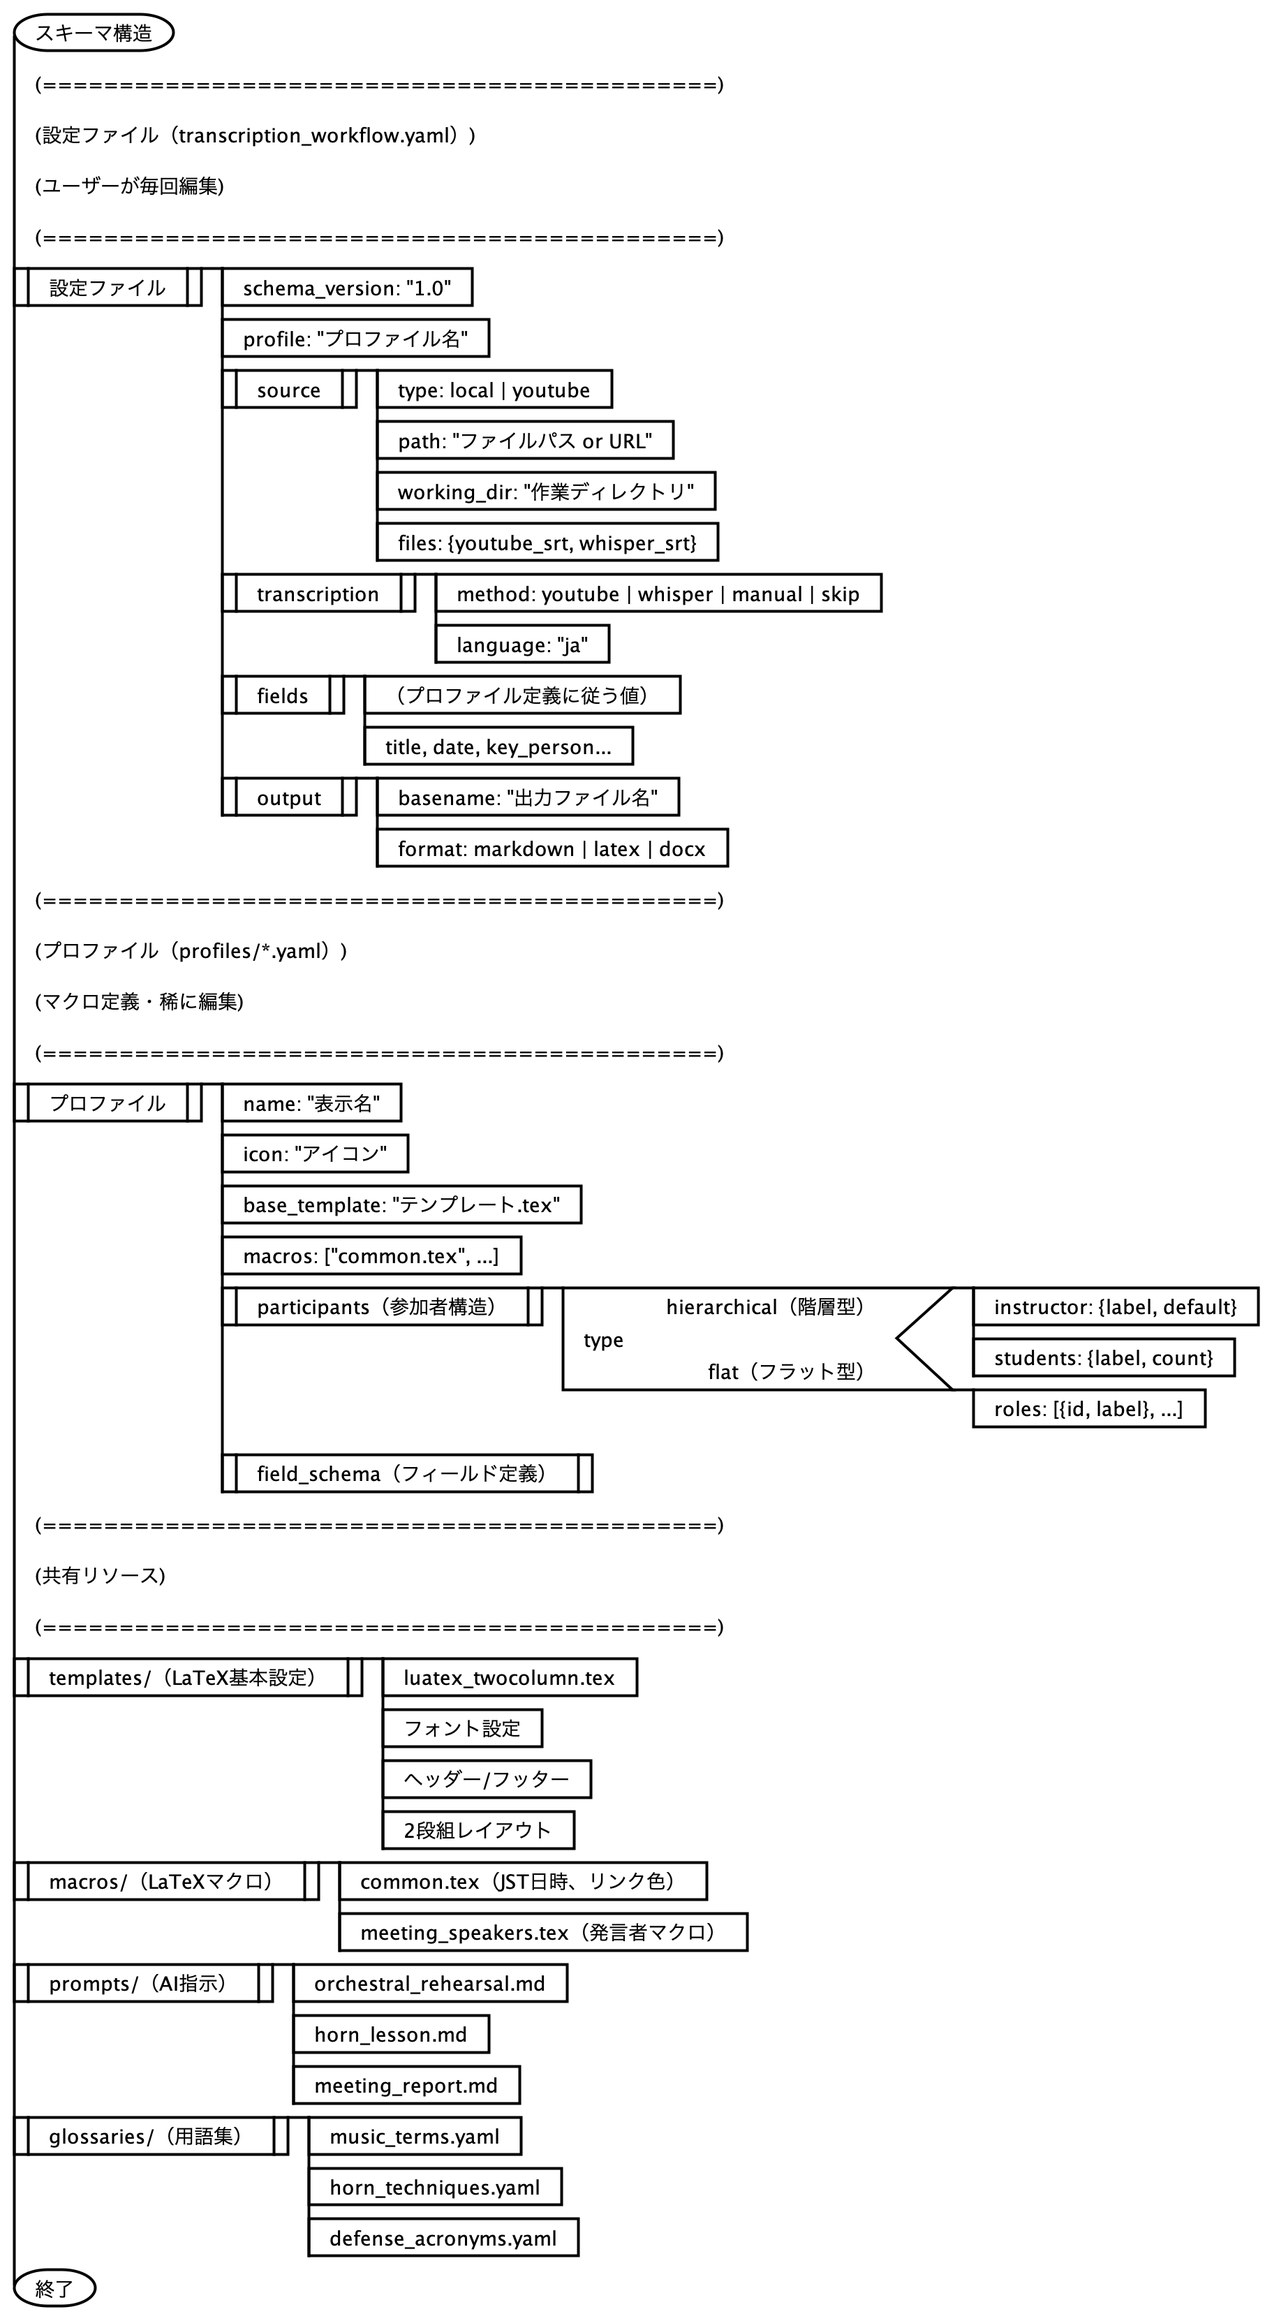
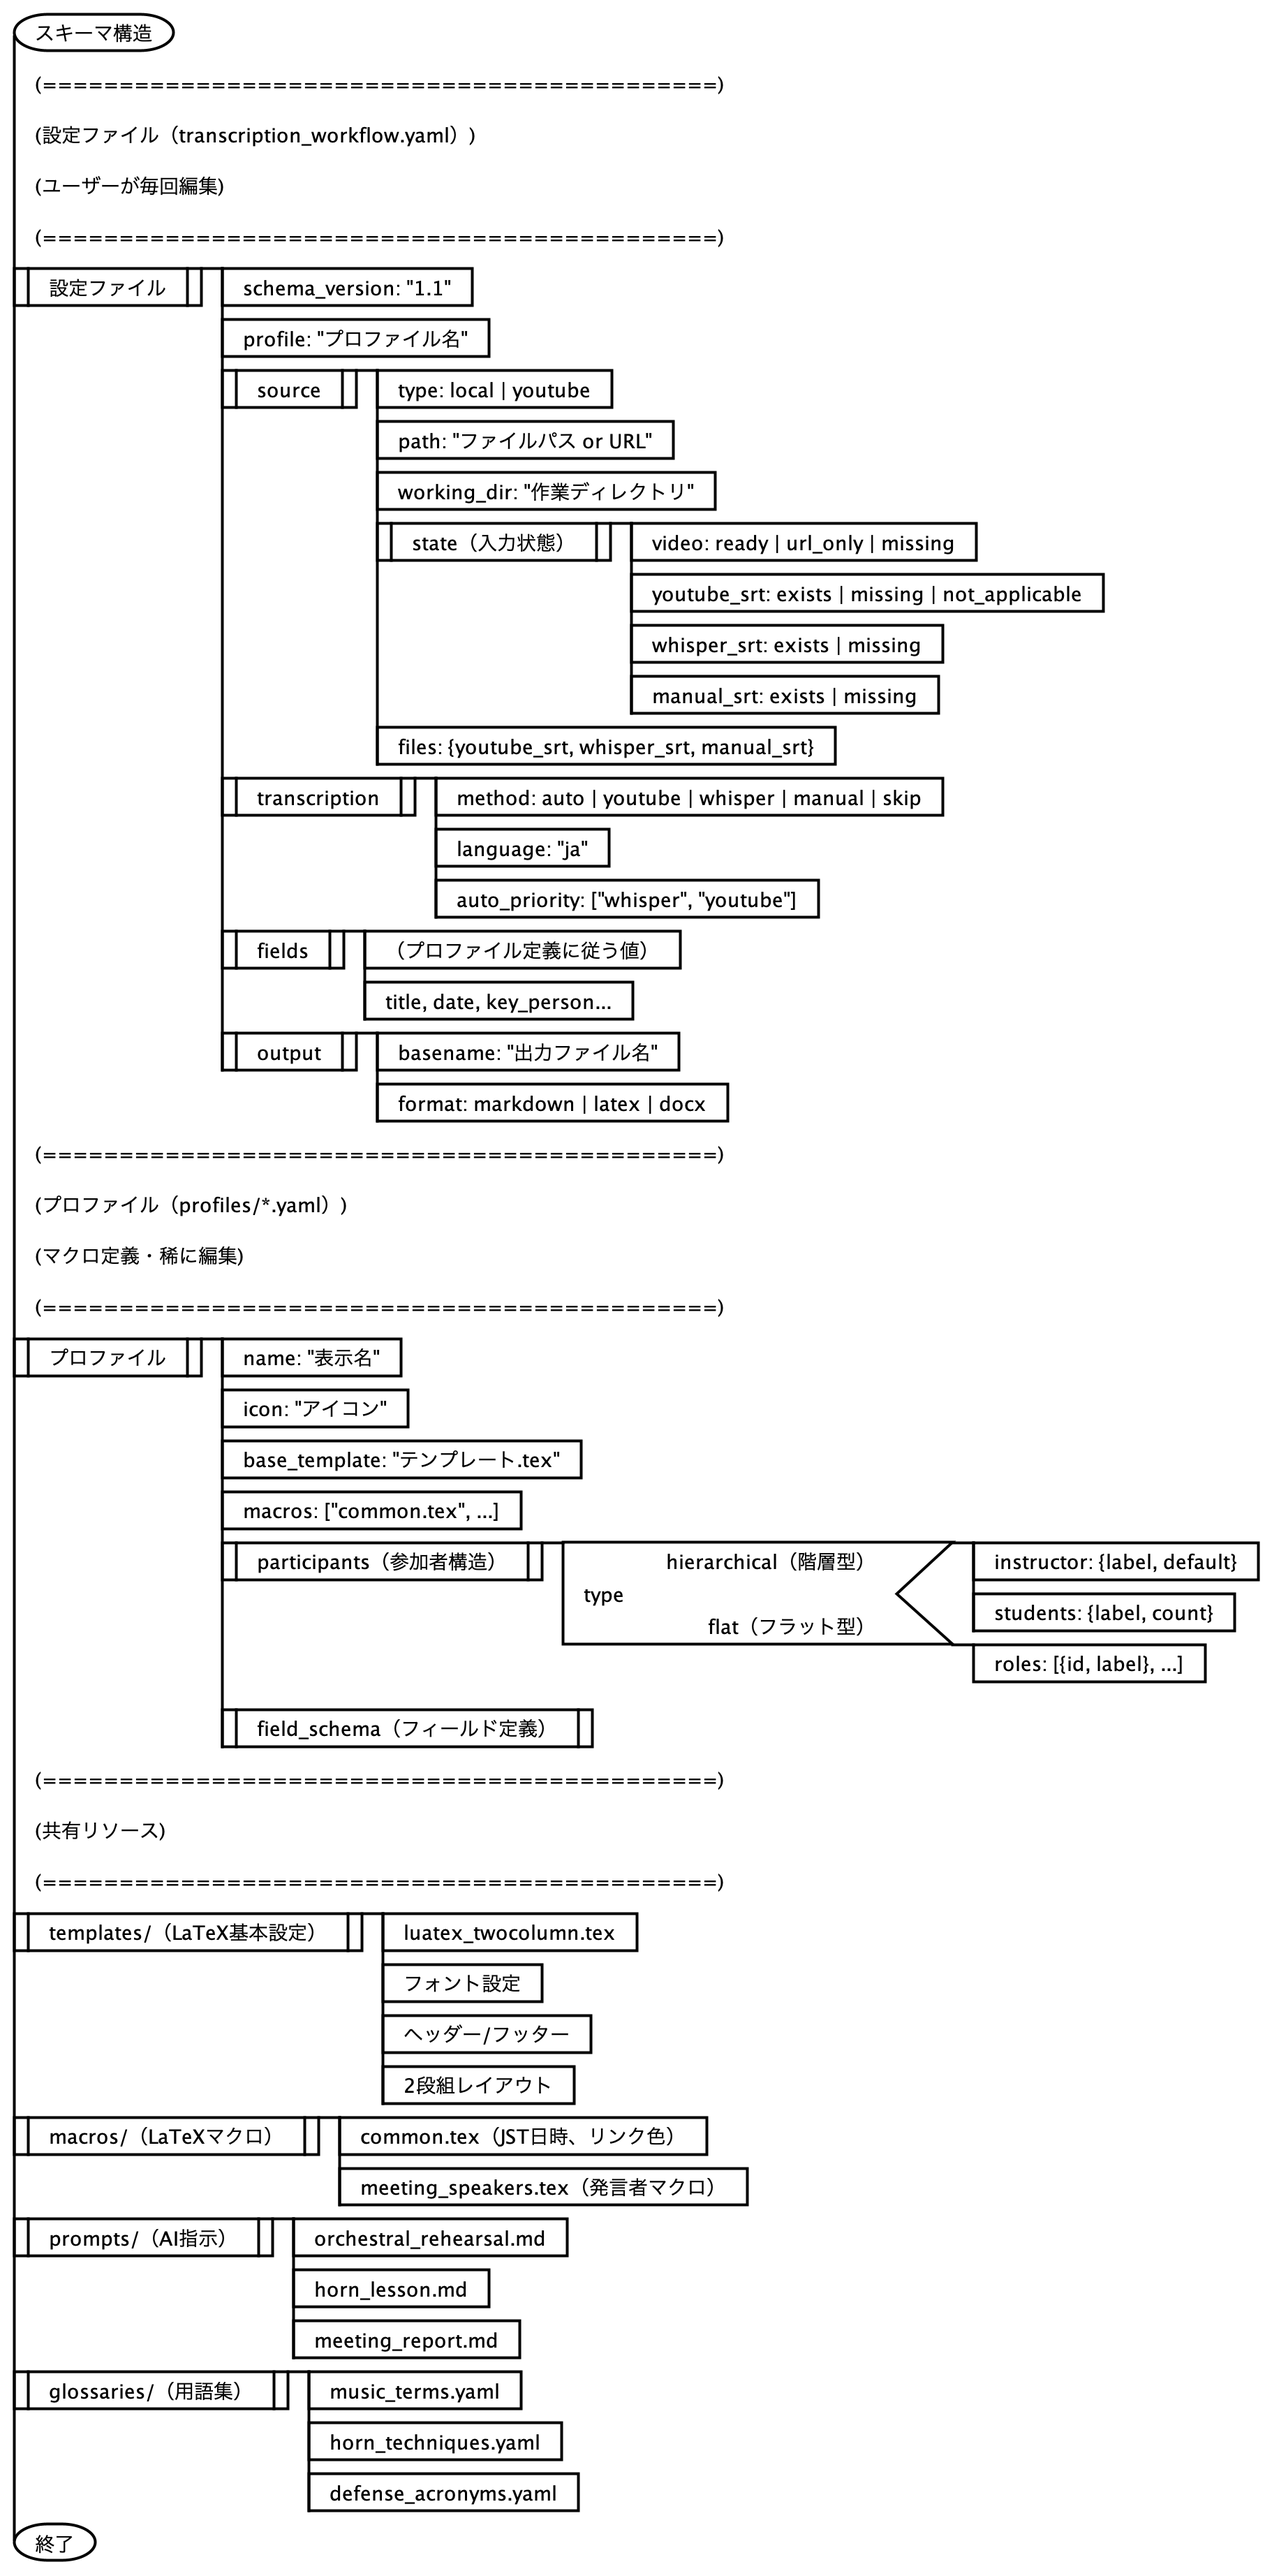
Add input state enumeration and workflow boundary clarification
Design refactoring based on input state analysis:
- Add 7 input states enumeration (YouTube URL, local video, with/without SRTs)
- Add source.state field to YAML schema (v1.1)
- Add transcription.method = "auto" with auto_priority
- Clarify workflow boundary: preprocessing guarantees SRT existence
- Update PAD with Phase 3 (input state determination)
- Add input state transition diagrams to workflow-diagrams.md

This resolves the ambiguity around YouTube download producing both
video and SRT simultaneously.

🤖 Generated with [Claude Code](https://claude.com/claude-code)

diff --git a/docs/design/transcription-workflow-design.md b/docs/design/transcription-workflow-design.md
@@ -61,27 +61,101 @@
 
 ---
 
-## 3. スキーマ設計
+## 3. 入力状態の場合分け
 
-### 3.1 設定ファイル（transcription_workflow.yaml）
+### 3.1 問題の背景
+
+YouTube経由の場合、`yt-dlp` で動画と字幕が同時に取得される。この自然な処理フローと、前処理/文字起こしワークフローの境界設計を整合させる必要がある。
+
+### 3.2 入力状態の次元
+
+```
+入力の次元:
+1. 動画ソース: YouTube URL | ローカルファイル | 処理済み動画
+2. SRT状態: なし | YouTube字幕あり | Whisper字幕あり | 両方あり | 手動SRTあり
+```
+
+### 3.3 全状態の列挙
+
+| # | 動画 | YT字幕 | Whisper | 手動SRT | 必要な処理 |
+|---|------|--------|---------|---------|-----------|
+| 1 | YouTube URL | - | - | - | ytdl（動画+YT字幕）、任意でWhisper |
+| 2 | ローカル動画のみ | - | - | - | Whisperまたは手動SRT |
+| 3 | ローカル動画 | ✓ | - | - | 任意でWhisper追加 |
+| 4 | ローカル動画 | - | ✓ | - | 処理可能 |
+| 5 | ローカル動画 | ✓ | ✓ | - | 処理可能（統合） |
+| 6 | ローカル動画 | - | - | ✓ | 処理可能 |
+| 7 | YouTube DL済み | - | - | - | yt-srt or Whisper |
+
+### 3.4 前処理との関係
+
+| 前処理の出力状態 | 文字起こしへの引き継ぎ |
+|-----------------|---------------------|
+| YouTube経由で完了 | 状態3 or 5（YT字幕あり） |
+| ローカル動画をWhisper | 状態4（WP字幕あり） |
+| ローカル動画のみ編集 | 状態2 or 7（字幕なし） |
+
+### 3.5 ワークフロー境界の定義
+
+```
+前処理の責務:
+  「SRTファイルが作業ディレクトリに存在する状態」を保証
+
+文字起こしの責務:
+  SRTファイルを読み込み、AI処理→出力
+  （ただし単独起動時はSRT取得も可能）
+```
+
+ソースタイプ別の責務分担：
+
+```
+[YouTube経由]
+前処理: ytdl → 動画 + SRT（両方取得）
+文字起こし: method = "skip"（SRT既存）
+
+[ローカル動画]
+前処理: video-trim → チャプター → 最終動画
+文字起こし: method = "whisper" or "manual"（SRT取得）
+
+[YouTubeから直接（前処理スキップ）]
+文字起こし単独起動: method = "youtube"（ytdl実行）
+```
+
+---
+
+## 4. スキーマ設計
+
+### 4.1 設定ファイル（transcription_workflow.yaml）
 
 ユーザーが毎回編集するプロジェクト固有の設定：
 
 ```yaml
-schema_version: "1.0"
+schema_version: "1.1"
 profile: "orchestral_rehearsal"
 
 source:
   type: "local"              # local | youtube
   path: "video.mp4"
   working_dir: "/path/to/project"
+
+  # 入力状態を明示的に記述
+  state:
+    video: "ready"           # ready | url_only | missing
+    youtube_srt: "exists"    # exists | missing | not_applicable
+    whisper_srt: "missing"   # exists | missing
+    manual_srt: "missing"    # exists | missing
+
   files:
-    youtube_srt: "video_yt.srt"
-    whisper_srt: "video_wp.srt"
+    youtube_srt: "video_yt.srt"   # state.youtube_srt = exists の場合
+    whisper_srt: null             # state.whisper_srt = missing の場合
+    manual_srt: null
 
 transcription:
-  method: "whisper"          # youtube | whisper | manual | skip
+  method: "auto"             # auto | youtube | whisper | manual | skip
   language: "ja"
+
+  # method = "auto" の場合の優先順位
+  auto_priority: ["whisper", "youtube"]
 
 fields:
   title: "ブラームス交響曲第1番"
@@ -94,7 +168,7 @@ output:
   format: "latex"            # markdown | latex | docx
 ```
 
-### 3.2 プロファイル（profiles/*.yaml）
+### 4.2 プロファイル（profiles/*.yaml）
 
 マクロ定義。稀に編集：
 
@@ -133,7 +207,7 @@ prompt_template: "orchestral_rehearsal.md"
 glossary: "music_terms.yaml"
 ```
 
-### 3.3 参加者構造の類型
+### 4.3 参加者構造の類型
 
 | パターン | 構造 | 例 |
 |----------|------|-----|
@@ -142,7 +216,7 @@ glossary: "music_terms.yaml"
 
 ---
 
-## 4. ファイル構成
+## 5. ファイル構成
 
 ```
 ~/.config/rehearsal-workflow/          # ユーザー設定（グローバル）
@@ -184,9 +258,9 @@ glossary: "music_terms.yaml"
 
 ---
 
-## 5. 適用対象の分析
+## 6. 適用対象の分析
 
-### 5.1 既存カスタムコマンドの分析
+### 6.1 既存カスタムコマンドの分析
 
 | コマンド | 行数 | 対象 | 特殊処理 |
 |----------|------|------|----------|
@@ -194,7 +268,7 @@ glossary: "music_terms.yaml"
 | `horn_hamaji.md` | 127 | ホルンレッスン | 初心者向け補足 |
 | `srt-meeting-report.md` | 549 | 国際会議 | 発言者識別、footnote、チャプター生成 |
 
-### 5.2 共通要素（templates/luatex_twocolumn.tex として共有）
+### 6.2 共通要素（templates/luatex_twocolumn.tex として共有）
 
 - LuaTeX 2段組設定
 - フォント設定（Libertinus + 原ノ味）
@@ -202,7 +276,7 @@ glossary: "music_terms.yaml"
 - ハイパーリンク色設定
 - 表スタイル（縦線なし、booktabs）
 
-### 5.3 差分要素（プロファイル/プロンプトで差別化）
+### 6.3 差分要素（プロファイル/プロンプトで差別化）
 
 - field_schema（フィールド定義）
 - participants（参加者構造）
@@ -212,7 +286,7 @@ glossary: "music_terms.yaml"
 
 ---
 
-## 6. 処理フロー
+## 7. 処理フロー
 
 ### Phase 1: 初期化
 - 設定ファイル読込 or 新規作成
@@ -244,7 +318,7 @@ glossary: "music_terms.yaml"
 
 ---
 
-## 7. 可視化手法の選択
+## 8. 可視化手法の選択
 
 | 対象 | 手法 | 理由 |
 |------|------|------|
@@ -253,7 +327,7 @@ glossary: "music_terms.yaml"
 
 ---
 
-## 8. 今後の実装タスク
+## 9. 今後の実装タスク
 
 1. [ ] dataclass実装
 2. [ ] 設定ファイル読み書きモジュール作成
@@ -263,7 +337,7 @@ glossary: "music_terms.yaml"
 
 ---
 
-## 9. 参考資料
+## 10. 参考資料
 
 - 既存カスタムコマンド: `~/.claude/commands/`
 - PAD図: `docs/pad/transcription-*.spd`

diff --git a/docs/workflow-diagrams.md b/docs/workflow-diagrams.md
@@ -378,6 +378,118 @@ stateDiagram-v2
 
 ---
 
+## 入力状態の場合分けと遷移
+
+### 入力状態の列挙
+
+| # | 動画 | YT字幕 | Whisper | 手動SRT | 必要な処理 |
+|---|------|--------|---------|---------|-----------|
+| 1 | YouTube URL | - | - | - | ytdl（動画+YT字幕）、任意でWhisper |
+| 2 | ローカル動画のみ | - | - | - | Whisperまたは手動SRT |
+| 3 | ローカル動画 | ✓ | - | - | 任意でWhisper追加 |
+| 4 | ローカル動画 | - | ✓ | - | 処理可能 |
+| 5 | ローカル動画 | ✓ | ✓ | - | 処理可能（統合） |
+| 6 | ローカル動画 | - | - | ✓ | 処理可能 |
+| 7 | YouTube DL済み | - | - | - | yt-srt or Whisper |
+
+### 入力状態遷移図
+
+```mermaid
+stateDiagram-v2
+    [*] --> 入力確認
+
+    state 入力確認 {
+        [*] --> 状態判定
+        状態判定 --> S1_YouTube_URL: URLのみ
+        状態判定 --> S2_ローカル動画のみ: 動画ファイルのみ
+        状態判定 --> S3_動画_YT字幕あり: 動画 + *_yt.srt
+        状態判定 --> S4_動画_WP字幕あり: 動画 + *_wp.srt
+        状態判定 --> S5_動画_両方あり: 動画 + 両SRT
+        状態判定 --> S6_動画_手動SRTあり: 動画 + 手動.srt
+        状態判定 --> S7_YouTube_DL済み_字幕なし: DL済み動画のみ
+    }
+
+    S1_YouTube_URL --> S3_動画_YT字幕あり: ytdl実行
+    S2_ローカル動画のみ --> S4_動画_WP字幕あり: Whisper実行
+    S2_ローカル動画のみ --> S6_動画_手動SRTあり: 手動指定
+    S3_動画_YT字幕あり --> S5_動画_両方あり: Whisper追加
+    S7_YouTube_DL済み_字幕なし --> S3_動画_YT字幕あり: yt-srt実行
+    S7_YouTube_DL済み_字幕なし --> S4_動画_WP字幕あり: Whisper実行
+
+    S3_動画_YT字幕あり --> 処理可能
+    S4_動画_WP字幕あり --> 処理可能
+    S5_動画_両方あり --> 処理可能
+    S6_動画_手動SRTあり --> 処理可能
+
+    処理可能 --> [*]
+```
+
+### 前処理出力と文字起こし入力の対応
+
+```mermaid
+flowchart LR
+    subgraph PREPROCESS["前処理の出力"]
+        direction TB
+        P1["YouTube経由で完了"]
+        P2["ローカル動画をWhisper"]
+        P3["ローカル動画のみ編集"]
+    end
+
+    subgraph STATE["入力状態"]
+        direction TB
+        S3["状態3: 動画+YT字幕"]
+        S5["状態5: 動画+両方"]
+        S4["状態4: 動画+WP字幕"]
+        S2["状態2: 動画のみ"]
+        S7["状態7: DL済み字幕なし"]
+    end
+
+    subgraph TRANSCRIPTION["文字起こしmethod"]
+        direction TB
+        M_SKIP["skip"]
+        M_WHISPER["whisper"]
+        M_YOUTUBE["youtube"]
+        M_MANUAL["manual"]
+    end
+
+    P1 --> S3
+    P1 --> S5
+    P2 --> S4
+    P3 --> S2
+    P3 --> S7
+
+    S3 --> M_SKIP
+    S4 --> M_SKIP
+    S5 --> M_SKIP
+    S2 --> M_WHISPER
+    S2 --> M_MANUAL
+    S7 --> M_YOUTUBE
+    S7 --> M_WHISPER
+```
+
+### ワークフロー境界の定義
+
+```mermaid
+flowchart TB
+    subgraph BOUNDARY["ワークフロー境界"]
+        direction LR
+        PRE["前処理<br>Video Chapter Editor"]
+        INTERFACE[/"SRTファイル<br>（作業ディレクトリに存在）"/]
+        TRANS["文字起こし<br>Transcription Workflow"]
+
+        PRE -->|"責務: SRT存在を保証"| INTERFACE
+        INTERFACE -->|"責務: SRT読込→AI→出力"| TRANS
+    end
+
+    subgraph STANDALONE["単独起動時"]
+        TRANS2["文字起こし単独起動"]
+        SRT_ACQ["SRT取得も実行可能"]
+        TRANS2 --> SRT_ACQ
+    end
+```
+
+---
+
 ## 文字起こしワークフロー スキーマ構造
 
 ### ファイル参照関係
